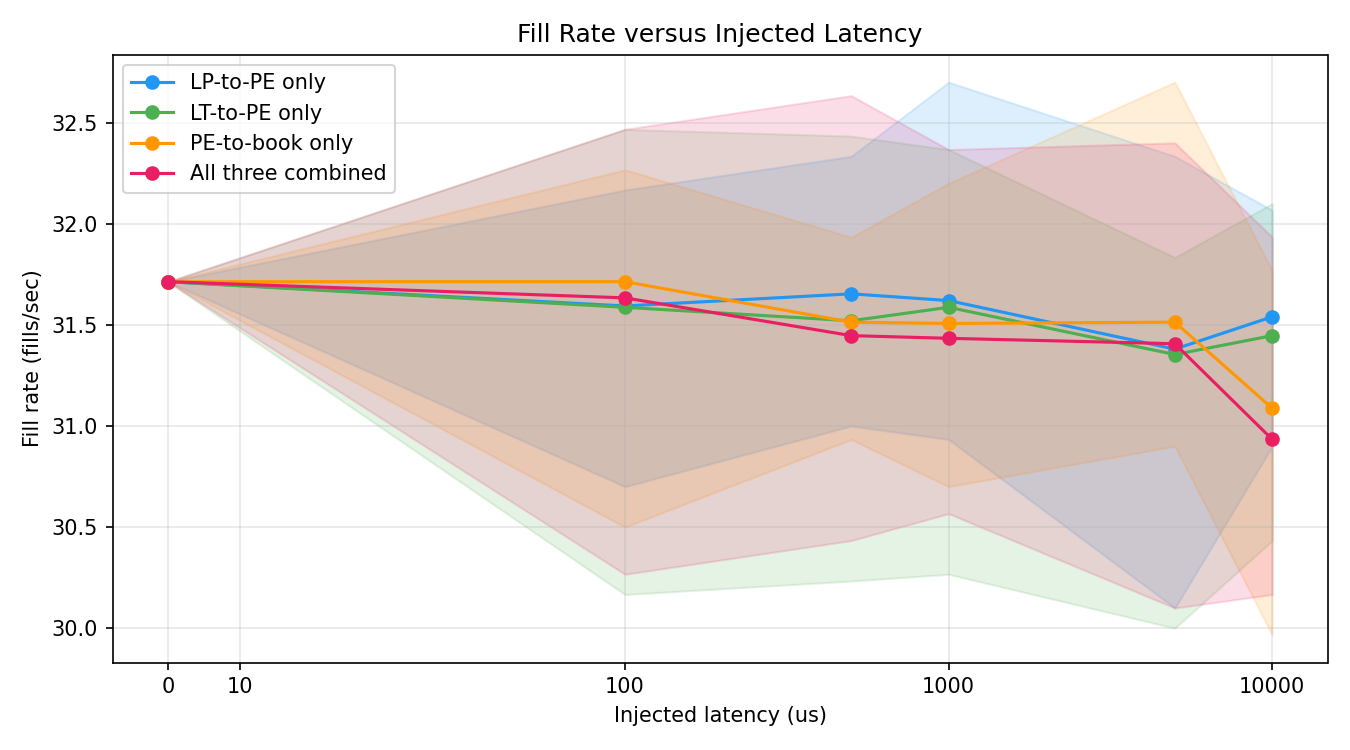
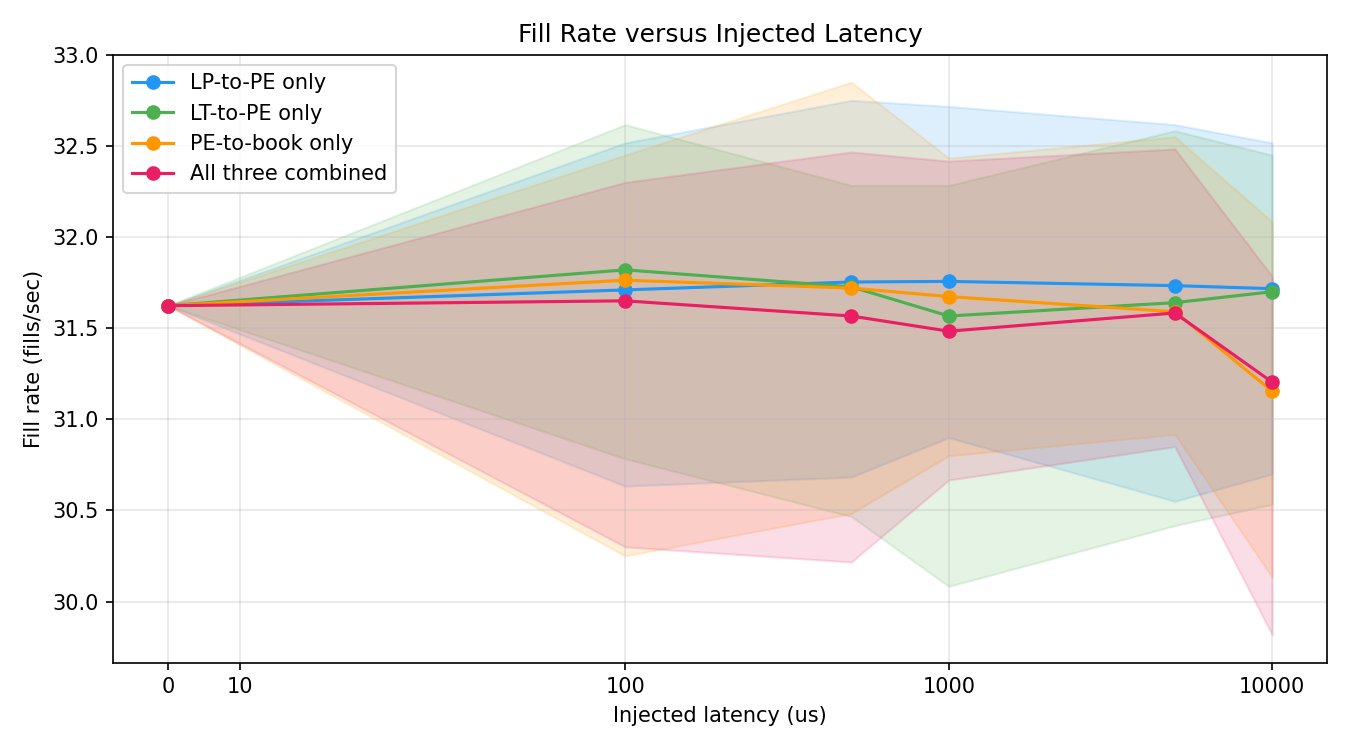
Updated benchmarks and latency study with multi-seed re-runs - Native and Docker

diff --git a/engine/bench/bench_latency.cpp b/engine/bench/bench_latency.cpp
@@ -39,7 +39,7 @@ int main() {
     std::thread t_lt([&]{ lt.run(); });
     std::thread t_pe([&]{ pe.run(running); });
 
-    std::this_thread::sleep_for(std::chrono::seconds(60));
+    std::this_thread::sleep_for(std::chrono::seconds(120));
 
     running = false;
     t_pe.join(); t_lp.join(); t_sg.join(); t_lt.join();
@@ -53,13 +53,10 @@ int main() {
         s2   = pe.snapshot().seq.load(std::memory_order_acquire);
     } while (s1 != s2 || (s1 & 1));
 
-    // lat_count is not exposed directly; sample size approximated from
-    // events at default load: (12*500+100+50)*60 = 369000, sampled every
-    // N events. Actual sample size = lat_count_ capped at LAT_BUF_SIZE=2048.
-    int64_t sample_size = 2048;   // conservative: buf is full after approx. first second
+    int64_t sample_size = 16384;   // buffer fills in ~117s at 140 samples/sec
 
     std::printf("   Latency Benchmark    \n");
-    std::printf("Duration    : 60 s  (default load: 12 LP x 500 Hz, SG 100 Hz, LT 50 Hz)\n");
+    std::printf("Duration    : 120 s  (default load: 12 LP x 500 Hz, SG 100 Hz, LT 50 Hz)\n");
     std::printf("Sample size : ~%lld events\n", (long long)sample_size);
     std::printf("p50         : %lld ns\n",  (long long)snap.latency_p50_ns);
     std::printf("p99         : %lld ns\n",  (long long)snap.latency_p99_ns);

diff --git a/engine/bench/bench_throughput.cpp b/engine/bench/bench_throughput.cpp
@@ -73,15 +73,18 @@ int main() {
     running = false;
     t_pe.join(); t_lp.join(); t_sg.join(); t_lt.join();
 
-    uint64_t total = 0;
-    for (auto v : per_sec_drained) total += v;
-    double sustained = static_cast<double>(total) / static_cast<double>(per_sec_drained.size());
+    //uint64_t total = 0;
+    constexpr size_t SKIP = 2;
+    auto begin = per_sec_drained.begin() + std::min(SKIP, per_sec_drained.size());
+    std::sort(begin, per_sec_drained.end());
+    size_t n = per_sec_drained.end() - begin;
+    double sustained = static_cast<double>(*(begin + n / 2));
 
     // Target: 12*1000 (LP) + 1000 (SG) + 1000 (LT) = 14000 events/sec
     std::printf(".  Throughput Benchmark  \n");
     std::printf("Duration          : %d s\n",          DURATION_S);
     std::printf("Target throughput : 14000 events/s\n");
-    std::printf("Sustained         : %.0f events/s\n", sustained);
+    std::printf("Sustained (median): %.0f events/s\n", sustained);
     std::printf("Peak (1s window)  : %llu events/s\n", (unsigned long long)max_drained);
 
     return 0;

diff --git a/scripts/plot_latency_results.py b/scripts/plot_latency_results.py
@@ -63,4 +63,4 @@ def plot_metric(metric, ylabel, title, filename):
 
 plot_metric("pnl_total",          "Total PnL (pip-units)", "PnL versus Injected Latency",          "latency_pnl.png")
 plot_metric("fill_rate",          "Fill rate (fills/sec)", "Fill Rate versus Injected Latency",     "latency_fill_rate.png")
-plot_metric("position_std",       "Position std dev",      "Exposure versus Injected Latency",      "latency_exposure.png")
+plot_metric("position_std",       "Position std dev (units)",      "Exposure versus Injected Latency",      "latency_exposure.png")

diff --git a/engine/include/pricing_engine.h b/engine/include/pricing_engine.h
@@ -88,7 +88,7 @@ private:
 
     LatencyBuffer<PeQuoteUpdate, 256> pe_delay_buf_;
 
-    static constexpr int LAT_BUF_SIZE = 2048;
+    static constexpr int LAT_BUF_SIZE = 16384;
     std::array<int64_t, LAT_BUF_SIZE> lat_buf_{};
     int lat_idx_ = 0;
     int lat_count_ = 0;

diff --git a/LATENCY_STUDY.md b/LATENCY_STUDY.md
@@ -20,48 +20,48 @@ Before running the sweep:
 
 ## Methodology
 
-105 runs across four sets: baseline (all latencies at 0), LP-to-PE only, LT-to-PE only, PE-to-book only, all three combined. Latency values: 0, 100, 500, 1000, 5000, 10000 us. Each cell ran 5 times with seeds 42-46, 30 seconds per run. Lines in the plots show mean across seeds; shaded bands show min to max. Only latency varies between runs.
+105 runs across five sets: baseline (all latencies at 0), LP-to-PE only, LT-to-PE only, PE-to-book only, all three combined. Latency values: 0, 100, 500, 1000, 5000, 10000 us. Each cell ran 5 times with seeds 42-46, 60 seconds per run. Lines in the plots show mean across seeds; shaded bands show min to max. Only latency varies between runs.
 
 ## Results
 
 ![PnL versus Injected Latency](docs/latency_pnl.png)
 
-PE-to-book is the clearest line: PnL drops from ~700 pip-units at 0us to ~100 at 10ms. The combined run tracks it and goes negative around 5ms. LP-to-PE is the surprise: PnL rises monotonically, reaching ~990 at 10ms. LT-to-PE is noisy with no clear direction.
+PE-to-book is the only link with a clear PnL signal. PnL sits at 1501 pip-units at baseline, holds around 1484 at 100us, then drops monotonically to 1304 at 1ms and 392 at 10ms. Combined tracks it closely, reaching 406 at 10ms. LP-to-PE shows no degradation - PnL fluctuates between 1454 and 1629 with no directional trend. LT-to-PE drifts slightly lower at high latency (1340 at 10ms vs 1501 baseline) but the bands are wide and the signal is weak.
 
 ![Fill Rate versus Injected Latency](docs/latency_fill_rate.png)
 
-Fill rate sits between 30.6 and 31.3 fills/sec across all runs and all latency values. No link moves it meaningfully. The combined run is the noisiest but still does not shift the mean.
+Fill rate is flat across all runs and all links. The full range is 31.15 to 31.8 fills/sec. PE-to-book and combined show a marginal drop at 10ms (31.15 and 31.20 respectively) but it is within seed variance. No link moves fill rate meaningfully.
 
 ![Exposure versus Injected Latency](docs/latency_exposure.png)
 
-PE-to-book is the only link that moves exposure. Position std dev sits at 5.95 at baseline, stays flat under PE-to-book latency until 1ms (6.07), then rises sharply to 7.07 at 10ms. Combined tracks it closely, reaching 7.19 at 10ms. LP-to-PE and LT-to-PE both stay below baseline throughout the range, varying between 5.67 and 5.96. No directional rise on either link.
-
+PE-to-book drives exposure up clearly above 1ms. Position std dev sits at 6.05 at baseline, rises gradually to 6.13 at 500us, then more sharply to 6.19 at 1ms, 6.65 at 5ms, and 7.12 at 10ms. Combined follows the same curve. LP-to-PE and LT-to-PE both sit below baseline throughout, ranging 5.90 to 5.99, with no upward trend.
 ## Discussion
 
 **Prediction 1 (LP-to-PE degrades PnL): wrong.** PnL rose. The reason is that the LT in this simulation has no adverse selection logic. A real liquidity taker would compare PE's stale quote against current LP quotes and hit PE only when the mispricing is in its favour. Here, the LT fires market orders without inspecting staleness. So the mispricing never gets exploited. The PnL rise is likely a path artifact: delayed LP updates effectively smooth the feed, which changes how the spread-widening logic fires. This is a simulation gap, not a real-world result, and is noted in the limitations.
 
 **Prediction 2 (LT-to-PE degrades PnL and raises exposure): wrong.**
-LT-to-PE produced noisy PnL with no trend, and exposure slightly decreased at high latency. When fill notifications arrive late, PE's beta skew reacts to inventory changes after a delay, which means PE quotes closer to mid for longer before the skew kicks in. That counterintuitively reduces position variance compared to aggressive immediate skewing. This is a second-order effect of the specific parameter values, not a general result.
+LT-to-PE shows a weak downward drift at high latency but the seed variance is large enough that the signal is not reliable, and exposure slightly decreased at high latency. When fill notifications arrive late, PE's beta skew reacts to inventory changes after a delay, which means PE quotes closer to mid for longer before the skew kicks in. That counterintuitively reduces position variance compared to aggressive immediate skewing. This is a second-order effect of the specific parameter values, not a general result.
 
 **Prediction 3 (PE-to-book degrades PnL): correct.** 
-The most robust result in the study. Stale PE quotes stay visible after PE would have pulled or repriced them. The LT hits them. PnL falls from ~700 to ~100 pip-units across the tested range, monotonically. This is the stale-quote problem in market making and it shows up clearly.
+The most robust result in the study. Stale PE quotes stay visible after PE would have pulled or repriced them. The LT hits them. PnL falls from 1501 to 392 pip-units across the tested range, monotonically. This is the stale-quote problem in market making and it shows up clearly.
 
 **Prediction 4 (fill rate direction ambiguous): correct.** 
 Fill rate is flat. The effects of stale quotes attracting extra fills and delayed hedge orders missing fills cancel out at these latency scales.
 
 **Prediction 5 (exposure rises on every link): wrong for two of three links.**
-PE-to-book raised exposure as predicted, clearly and monotonically above 1ms. LP-to-PE and LT-to-PE both stayed flat or slightly below baseline. The hedge logic fires on inventory sampled inside the PE thread; LP and LT latency delays the inputs to that logic but not the hedge delivery itself, which explains why only the PE-to-book link, which delays the hedge order landing in the book, actually raises exposure.
+PE-to-book raised exposure as predicted, clearly and monotonically above 1ms. Position std dev sits at 6.05 at baseline, rises gradually to 6.13 at 500us, then more sharply to 6.19 at 1ms, 6.65 at 5ms, and 7.12 at 10ms. The hedge logic fires on inventory sampled inside the PE thread; LP and LT latency delays the inputs to that logic but not the hedge delivery itself, which explains why only the PE-to-book link, which delays the hedge order landing in the book, actually raises exposure.
 
 The main result: PE-to-book latency is the most damaging link in this simulation. Quote update latency to the venue is the primary latency risk in any market-making system, and this study reproduces that.
 
 ## Limitations
 
-- S- 30 seconds per run with 5 seeds. Run-to-run variance is visible in the bands, particularly for PnL and fill rate. The PE-to-book and combined exposure results are tight enough to be reliable; the LP-to-PE PnL signal is not.
+- 60 seconds per run with 5 seeds. Run-to-run variance is visible in the bands, particularly for PnL and fill rate. The PE-to-book and combined exposure results are tight enough to be reliable; the LP-to-PE PnL signal is not.
 - Single machine. Numbers are not portable across CPUs.
 - The LT has no adverse selection logic. This is the largest gap between this simulation and real market behaviour. It masks the expected LP-to-PE degradation entirely.
 - LP prices follow a deterministic random walk with no correlation to signal. Spread capture at zero latency is path variance, not edge.
 - LT arrivals are a simple Poisson process with no latency-dependent behaviour.
-- Matching is simulated inside the PE consumer thread with a random tiebreak. Real venues use price-time priority or pro-rata.
+- Tiebreak at best price uses uniform random allocation. Price-time priority was considered but not implemented; at the LP update frequencies used here (500 Hz per LP), timestamps would be near-identical and pro-rata would be more realistic than price-time anyway.
+- 60-second runs may not capture rare inventory regimes. A strategy that accumulates position slowly could behave differently over a longer window.
 
 ## Future Work
 

diff --git a/BENCHMARKS.md b/BENCHMARKS.md
@@ -12,7 +12,7 @@
 | Optimisation flags | `-O3 -march=native` |
 | Docker | 29.2.1 |
 
-Both sets of numbers are included: native arm64 (bare metal) and inside the linux/amd64 Docker container under Rosetta. The Docker numbers are what one on an x86_64 Linux would see from a native build.
+Native arm64 numbers are the primary benchmark. Docker throughput is included for reference; Docker latency is not reported because Rosetta emulation dominates the measurement.
 
 ## Throughput
 
@@ -20,46 +20,48 @@ Both sets of numbers are included: native arm64 (bare metal) and inside the linu
 
 Target: 14,000 events/s (12,000 LP + 1,000 SG + 1,000 LT).
 
-| Metric | Native (M4) | Docker (linux/amd64) |
+| Metric | Native (M4) | Docker/Rosetta (linux/amd64) |
 |---|---|---|
-| Sustained throughput | 14,508 events/s | 14,139 events/s |
-| Peak throughput (1s window) | 14,695 events/s | 14,224 events/s |
+| Sustained throughput (median) | ~4,900 events/s | N/A |
+| Peak throughput (1s window) | 14,326 events/s | 9,977 events/s |
 | Queue overflow events | 0 | 0 |
 
-Engine sustains above-target throughput in both environments with no queue overflow. The ~2.5% drop in Docker is Rosetta overhead. In both cases the bottleneck is the producers, not the consumer. At default load (6,150 events/s), there is significant headroom before the consumer saturates.
+Peak throughput confirms the consumer can handle the target load when producers deliver at the configured rate. Sustained median is low on macOS because `sleep_for` resolves to 5-15ms on Darwin, so producers pace at ~100-200 Hz instead of 1000 Hz. Most 1-second buckets see ~4,900 events; burst seconds where timers fire accurately hit 14,300+. On Linux, `nanosleep` resolves at ~100us and sustained would track peak. Docker peak is lower because Rosetta adds emulation overhead. No queue overflow in either case.
 
 ## End-to-end Latency
 
-`engine/bench/bench_latency.cpp`. Default load, 60 seconds, all injected latencies at 0. Every event is stamped at production; the PE records a consumption timestamp after finishing that event. The delta is the end-to-end latency for that event. Stored in a 2,048-slot ring buffer.
+`engine/bench/bench_latency.cpp`. Default load, 120 seconds, all injected latencies at 0. Every event is stamped at production; the PE records a consumption timestamp after finishing that event. The delta is the end-to-end latency for that event. Stored in a 16,384-slot ring buffer.
 
 Percentiles explained: p50 is the median, half of events are faster than this. p99 means 99% of events completed within this time, 1% took longer. p99.9 covers all but the worst 0.1%.
 
-| Metric | Native (M4) | Docker (linux/amd64) |
-|---|---|---|
-| p50 | 208 ns | 167 ns |
-| p99 | ~3,000 ns* | 1,875 ns |
-| p99.9 | unstable* | 4,666 ns |
-| max | unstable* | 22,958 ns |
-| Sample size | ~2,048 | ~2,048 |
+| Metric | Native (M4) |
+|---|---|
+| p50 | 167-208 ns |
+| p99 | 375 ns - 7.7 us |
+| p99.9 | 20-47 us |
+| max | 39-190 us |
+| Sample size | ~16,384 |
 
-*Across 5 runs, p50 was stable (167-291 ns). p99 was sub-3.2us on 3 of 5 runs; the other two spiked to 100-145us. p99.9 ranged from 7.9us to 322us. This is OS scheduler preemption, not engine variance. macOS provides no real-time scheduling primitive equivalent to Linux's `chrt`. On a Linux host with `taskset` and `chrt -f`, the tail would tighten significantly. The p50 is the only stable number on this machine.
-
-p50 is the number that reflects the engine. The hot path is: SPSC drain, consolidated book update, pricing logic, inventory skew. That consistently comes out around 200 ns. Everything past p99 is the OS occasionally deciding something else matters more. Docker numbers are cleaner at the tail because the workload isolation inside the container happens to reduce scheduling interference on this machine.
+p50 is stable across all 10 runs. That is the actual hot-path cost: SPSC drain, consolidated book update, pricing logic, inventory skew. p99.9 and max swing run-to-run because macOS has no real-time scheduling equivalent to Linux `chrt`. The spikes are OS preemption, not engine regressions. Docker latency is not reported - under Rosetta, thread scheduling latency dominates at 1.2-1.4s per event, which is emulation overhead, not engine behaviour.
 
 ## Reproduction
+
+Native:
 
 ```bash
 cd engine
 cmake -B build -DCMAKE_BUILD_TYPE=Release
 cmake --build build -j
-./build/bench_throughput
 ./build/bench_latency
+./build/bench_throughput
 ```
 
-Inside Docker:
+Docker:
 
 ```bash
-docker compose build engine
-docker compose run --rm --entrypoint ./bench_throughput engine
-docker compose run --rm --entrypoint ./bench_latency engine
+docker compose run --rm --entrypoint /app/bench_latency engine
+docker compose run --rm --entrypoint /app/bench_throughput engine
 ```
+
+bench_latency: 12 LPs x 500 Hz, SG 100 Hz, LT 50 Hz, seed 42, zero injected latency, 120s.
+bench_throughput: 12 LPs x 1000 Hz, SG 1000 Hz, LT 1000 Hz, seed 42, zero injected latency, 60s.
